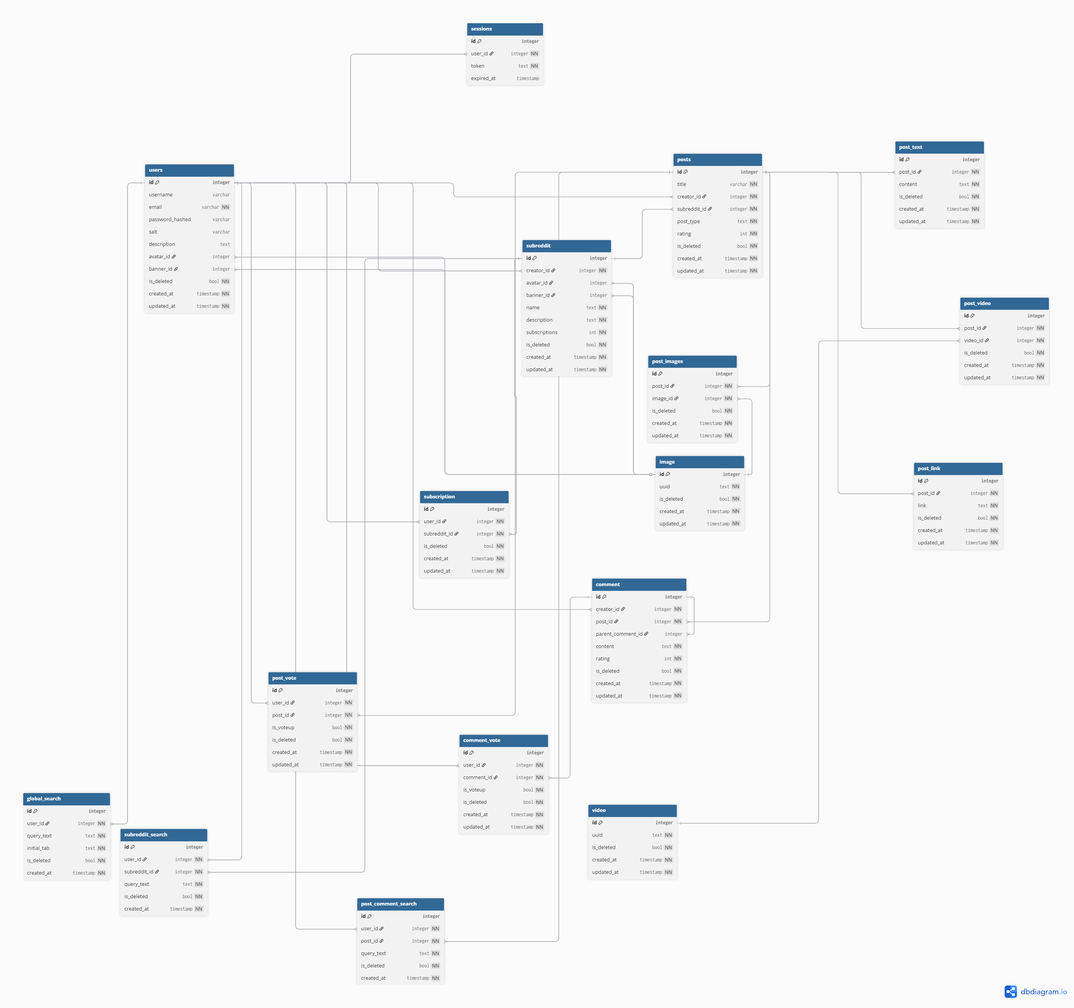
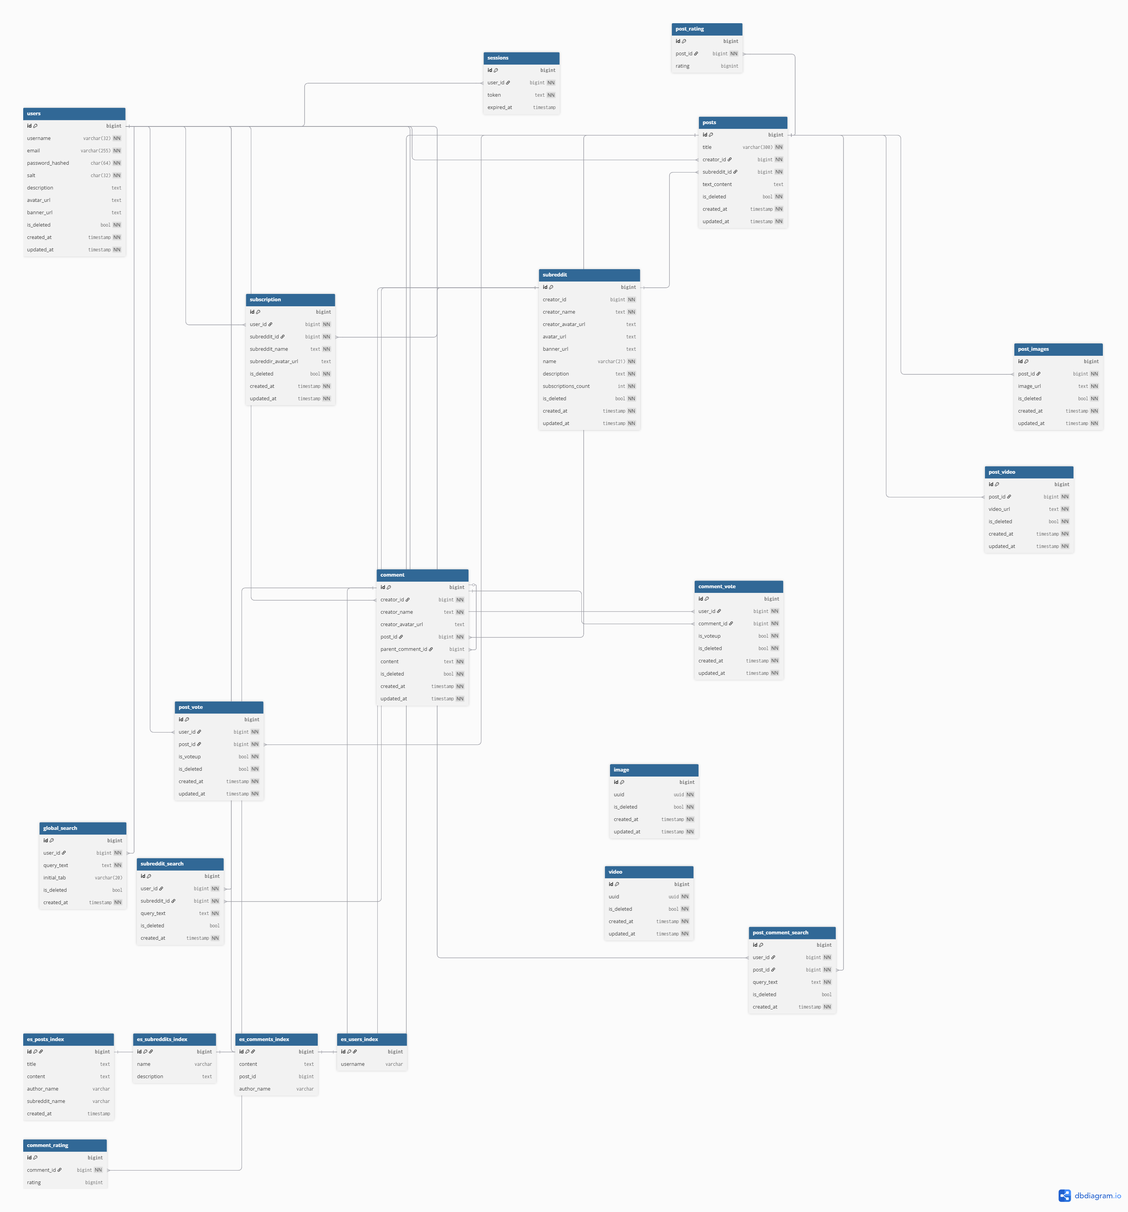
logical-schema-fixes

diff --git a/README.md b/README.md
@@ -688,8 +688,6 @@
 | **Subscription** | Связующая таблица, фиксирующая подписки конкретных пользователей на определенные сабреддиты. |
 | **Image** | Централизованное хранилище метаданных изображений (UUID). Используется как справочник для аватаров, баннеров и медиаконтента в постах. |
 | **Post** | Основная информация о публикациях: заголовок, тип контента, рейтинг, привязка к автору и сабреддиту. |
-| **PostText** | Содержит текстовую часть публикаций. Связана с таблицей Post для постов текстового типа. |
-| **PostLink** | Хранит внешние ссылки для публикаций типа «ссылка». |
 | **PostVideo** | Промежуточная таблица для связи постов с видео из таблицы Video |
 | **PostImages** | Промежуточная таблица для связи постов с изображениями из таблицы Image. |
 | **Comment** | Хранит текст и рейтинг комментариев. Поддерживает древовидную структуру за счет связи с родительским комментарием (parent_comment_id). |
@@ -698,6 +696,9 @@
 | **GlobalSearch** | Поисковые запросы пользователя по всему реддиту |
 | **SubredditSearch** | Поисковый запрос пользователя по сабреддиту |
 | **PostCommentSearch** | Поисковый запрос ползователя в секции комментариев под постом |
+| **es_posts_index** | Индекс для поиска по постам в ElasticSearch |
+| **es_subreddits_index** | Индекс для поиска по сабреддитам в ElasticSearch |
+| **es_comments_index** | Индекс для поиска по комментам в ElasticSearch |
 
 ### Расчет размеров данных
 
@@ -709,38 +710,38 @@
 | **Video** | 8 (id) + 16 (uuid) + 1 (is_deleted) + 8 (created_at) + 8 (updated_at) | 41 байт | 210 млн. | 8.0 ГБ |
 | **Subreddit** | 8 (id) + 8 (creator_id) + 8 (avatar_id) + 8 (banner_id) + 21 (name) + 500 (description) + 8 (subscriptions) + 1 (is_deleted) + 8 (created_at) + 8 (updated_at) | 578 байт | 5.155 млн. | 2.8 ГБ |
 | **Subscription** | 8 (id) + 8 (user_id) + 8 (subreddit_id) + 1 (is_deleted) + 8 (created_at) + 8 (updated_at) | 41 байт | 5.15 млрд. | 196.4 ГБ |
-| **Post** | 8 (id) + 100 (title) + 8 (creator_id) + 8 (subreddit_id) + 5 (post_type) + 8 (rating) + 1 (is_deleted) + 8 (created_at) + 8 (updated_at) | 154 байт | 1 млрд. | 143.4 ГБ |
-| **PostText** | 8 (id) + 8 (post_id) + 500 (content) + 1 (is_deleted) + 8 (created_at) + 8 (updated_at) | 533 байт | 290 млн. | 144.1 ГБ |
-| **PostLink** | 8 (id) + 8 (post_id) + 75 (link) + 1 (is_deleted) + 8 (created_at) + 8 (updated_at) | 108 байт | 120 млн. | 12.1 ГБ |
-| **PostVideo** | 8 (id) + 8 (post_id) + 8 (video_id) + 1 (is_deleted) + 8 (created_at) + 8 (updated_at) | 41 байт | 210 млн. | 8.0 ГБ |
-| **PostImages** | 8 (id) + 8 (post_id) + 8 (image_id) + 1 (is_deleted) + 8 (created_at) + 8 (updated_at) | 41 байт | 380 млн. | 14.5 ГБ |
+| **Post** | 8 (id) + 100 (title) + 8 (creator_id) + 8 (subreddit_id) + 5 (post_type) + 8 (rating) + 1 (is_deleted) + 8 (created_at) + 8 (updated_at) + 500 (text_content) | 154 байт | 1 млрд. | 609.08 ГБ |
+| **PostVideo** | 8 (id) + 8 (post_id) + 75 (video_url) + 1 (is_deleted) + 8 (created_at) + 8 (updated_at) | 108 байт | 210 млн. | 21.1 ГБ |
+| **PostImages** | 8 (id) + 8 (post_id) + 75 (image_url) + 1 (is_deleted) + 8 (created_at) + 8 (updated_at) | 108 байт | 380 млн. | 38.2 ГБ |
 | **Comment** | 8 (id) + 8 (creator_id) + 8 (post_id) + 8 (parent_comment_id) + 100 (content) + 8 (rating) + 1 (is_deleted) + 8 (created_at) + 8 (updated_at) | 157 байт | 16 млрд. | 2.34 ТБ |
 | **PostVote** | 8 (id) + 8 (user_id) + 8 (post_id) + 1 (is_voteup) + 1 (is_deleted) + 8 (created_at) + 8 (updated_at) | 42 байт | 9.4 млн. | 0.37 ГБ |
 | **CommentVote** | 8 (id) + 8 (user_id) + 8 (comment_id) + 1 (is_voteup) + 1 (is_deleted) + 8 (created_at) + 8 (updated_at) | 42 байт | 9.4 млн. | 0.37 ГБ |
 | **GlobalSearch** | 8 (id) + 8 (user_id) + 100 (query_text) + 12 (initial_tab) + 1 (is_deleted) + 8 (created_at) | 137 байт | 1.2 млрд. | 153.1 ГБ |
 | **SubredditSearch** | 8 (id) + 8 (user_id) + 8 (subreddit_id) + 100 (query_text) + 1 (is_deleted) + 8 (created_at) | 133 байт | 600 млн. | 74.3 ГБ |
 | **PostCommentSearch** | 8 (id) + 8 (user_id) + 8 (post_id) + 100 (query_text) + 1 (is_deleted) + 8 (created_at) | 133 байт | 200 млн. | 24.8 ГБ |
+| **es_posts_index** | 8 (id) + 100 (title) + 500 (content) + 32 (author_name) + 21 (subreddit_name) + 8 (created_at) | 669 байт | 1 млрд. | 623.1 ГБ |
+| **es_subreddits_index** | 8 (id) + 21 (name) + 500 (description) | 529 байт | 5.155 млн. | 2.5 ГБ |
+| **es_comments_index** | 8 (id) + 100 (content) + 8 (post_id) + 32 (author_name) | 148 байт | 16 млрд. | 2.15 ТБ |
 
 ### Расчет нагрузки на базу данных (QPS)
 
 | Тип запроса | Средний RPS | Пиковый RPS | Запросов в БД на 1 Request | Средний QPS (Чтение) | Пиковый QPS (Чтение) | Средний QPS (Запись) | Пиковый QPS (Запись) |
 | :--- | :--- | :--- | :--- | :--- | :--- | :--- | :--- |
 | **Авторизация** | 117 | 585 | 2 (select user, insert session) | 117 | 585 | 117 | 585 |
-| **Публикация (Image)** | 6.66 | 33.3 | 3 (select sub, insert post, insert post_img) | 6.66 | 33.3 | 13.32 | 66.6 |
-| **Публикация (Text)** | 5.03 | 25.15 | 3 (select sub, insert post, insert post_txt) | 5.03 | 25.15 | 10.06 | 50.3 |
-| **Публикация (Video)** | 3.62 | 18.1 | 3 (select sub, insert post, insert post_vid) | 3.62 | 18.1 | 7.24 | 36.2 |
-| **Публикация (Link)** | 2.10 | 10.5 | 3 (select sub, insert post, insert post_link) | 2.10 | 10.5 | 4.2 | 21 |
+| **Публикация (Image)** | 6.66 | 33.3 | 3 (select sub, insert post, insert post_images) | 6.66 | 33.3 | 13.32 | 66.6 |
+| **Публикация (Text)** | 5.03 | 25.15 | 2 (select sub, insert post) | 5.03 | 25.15 | 5.03 | 25.15 |
+| **Публикация (Video)** | 3.62 | 18.1 | 3 (select sub, insert post, insert post_video) | 3.62 | 18.1 | 7.24 | 36.2 |
+| **Публикация (Link)** | 2.10 | 10.5 | 2 (select sub, insert post) | 2.10 | 10.5 | 2.10 | 10.5 |
 | **Комментарий** | 86.5 | 432.5 | 2 (select post, insert comment) | 86.5 | 432.5 | 86.5 | 432.5 |
-| **Оценка (Vote)** | 217 | 1085 | 1 (insert/upsert vote) | — | — | 217 | 1085 |
+| **Оценка (Vote)** | 217 | 1085 | 1 (upsert vote) | — | — | 217 | 1085 |
 | **Создание сабреддита** | 0.018 | 0.09 | 1 (insert subreddit) | — | — | 0.018 | 0.09 |
 | **Подписка** | 120 | 600 | 2 (select sub, insert subscription) | 120 | 600 | 120 | 600 |
-| **Просмотр постов** | 155 475 | 777 380 | 3 (select post, select content, select user) | 466 425 | 2 332 140 | — | — |
-| **Поиск поста** | 1169 | 5845 | 2 (select search_idx, select post_details) | 2338 | 11 690 | — | — |
+| **Просмотр постов** | 155 475 | 777 380 | 3 (select post, select media, select user) | 466 425 | 2 332 140 | — | — |
 | **Запрос ленты** | 4863 | 24 315 | 4 (select subs, select posts, select media, select votes) | 19 452 | 97 260 | — | — |
-| **Глобальный поиск** | 701 | 3505 | 3 (select results, insert history, select user_history) | 1051 | 5257 | 701 | 3505 |
-| **Поиск в сабреддите** | 350 | 1750 | 3 (select sub_results, insert history, select sub_history) | 525 | 2625 | 350 | 1750 |
-| **Поиск в комментариях** | 118 | 590 | 3 (select comm_results, insert history, select comm_history) | 177 | 885 | 118 | 590 |
-| **ИТОГО (Поиск)** | **1169** | **5845** | — | **1753** | **8767** | **1169** | **5845** |
+| **Глобальный поиск** | 701 | 3505 | 3 (select ES_idx, select user_hist, insert hist) | 1402 | 7010 | 701 | 3505 |
+| **Поиск в сабреддите** | 350 | 1750 | 3 (select ES_idx, select sub_hist, insert hist) | 700 | 3500 | 350 | 1750 |
+| **Поиск в комментариях** | 118 | 590 | 3 (select ES_idx, select comm_hist, insert hist) | 236 | 1180 | 118 | 590 |
+| **ИТОГО (Суммарно)** | **162 064** | **810 330** | — | **488 555** | **2 442 795** | **1737** | **8686** |
 
 
 ### Требования к консистентности данных
@@ -749,13 +750,11 @@
 | :--- | :--- | :--- |
 | **Жизненный цикл (Удаление)** | При удалении (soft delete) пользователя, сабреддита или поста, все зависимые сущности (подписки, голоса, медиа-контент) должны также помечаться `is_deleted = true`. | Каскадные триггеры  или логика на уровне application service. |
 | **Автозаполнение** | Поля `created_at` и `updated_at` заполняются на уровне БД при вставке и любом обновлении строки. | `DEFAULT CURRENT_TIMESTAMP` и `ON UPDATE CURRENT_TIMESTAMP`. |
-| **Типизация контента** | Поле `post_type` должно строго соответствовать наличию записи в дочерней таблице (`post_text`, `post_video`, `post_link`, `post_images`). Пост не может быть одновременно ссылкой и видео. | `CHECK` констрейнты или валидация на уровне транзакции при создании поста. |
 | **Целостность дерева** | Комментарий не может ссылаться на самого себя в качестве родителя (`parent_comment_id != id`). | `CHECK (parent_comment_id <> id)`. |
 | **Уникальность подписок** | Пользователь может иметь только одну активную подписку на конкретный сабреддит. | Составной уникальный индекс `UNIQUE(user_id, subreddit_id)`. |
 | **Логика голосования** | Пользователь не может проголосовать за один и тот же объект дважды. При повторном голосовании (например, смена Upvote на Downvote) старая запись обновляется или заменяется. | `UPSERT` логика и уникальный индекс `UNIQUE(user_id, post_id/comment_id)`. |
 | **Владение контентом** | Только создатель поста (`creator_id`) или модератор сабреддита имеет право изменять метаданные или помечать контент как удаленный. | Проверка прав доступа (ACL) перед выполнением `UPDATE`. |
 | **Счетчики (Denormalization)** | Поля вроде `subscriptions` в таблице `Subreddit` или `rating` в `Post` должны быть синхронизированы с количеством реальных записей в таблицах связей. | Асинхронные воркеры или триггеры для инкремента/декремента. |
-| **Медиа-ссылки** | Запись в `PostImages`, `PostVideo` или `PostLink` не может существовать без родительской записи в таблице `Posts`. | `FOREIGN KEY ... ON DELETE CASCADE`. |
 | **Статус сессии** | Токен сессии считается невалидным, если `expired_at < NOW()`. Проверка должна происходить на уровне middleware до обращения к бизнес-логике. | Индекс на `expired_at` для быстрой очистки просроченных сессий по расписанию. |
 | **Валидация контекста** | В `subreddit_search` поле `subreddit_id` должно указывать на существующий и активный сабреддит. | Foreign Key с правилом `ON DELETE CASCADE`. |
 | **Очистка при удалении** | При удалении поста (`is_deleted = true`), связанные записи в `post_comment_search` должны скрываться или удаляться. | Trigger или фоновая задача (Cleanup Job). |
@@ -767,7 +766,6 @@
 
 
 ## 6. Физическая схема БД
-![alt text](db_physical_schema.png)
 
 ### Индексы
 | Таблица | Индекс | Тип индекса | Пояснение | Размер записи | Всего строк | Итоговый размер |
@@ -783,36 +781,6 @@
 | **comment** | `idx_comment_post` (post_id, created_at DESC) | B-Tree | Загрузка дерева комментариев к посту | 16 байт | 16 млрд | 238.42 ГБ |
 | **subreddit** | `idx_sub_name_unique` (name) | B-Tree | Уникальный индекс для имени сабреддита | 24 байта | 2.6 млн | 0.06 ГБ |
 
-### Денормализация
-| Таблица | Поля для денормализации | Источник данных | Цель |
-| :--- | :--- | :--- | :--- |
-| **Users** | `avatar_url`, `banner_url` | S3 | Храним прямые ссылки на статику. Быстрая отрисовка профиля без JOIN с таблицей ресурсов. |
-| **Subreddit** | `creator_name`, `creator_avatar_url` | `Users` | Отображение информации о создателе на главной странице сабреддита без запроса к профилю пользователя. |
-| **Subreddit** | `avatar_url`, `banner_url` | S3 | Прямые ссылки для оформления сообщества. |
-| **Subscription** | `subreddit_name`, `subreddit_avatar_url` | `Subreddit` | Мгновенная отрисовка списка подписок в боковом меню (Sidebar) одним запросом. |
-| **Post_Video** | `video_url` | S3 | Прямой доступ к видеофайлу поста без промежуточных таблиц метаданных. |
-| **Post_Images** | `image_url` | S3 | Поддержка галерей изображений с прямым доступом к ссылкам. |
-| **Comment** | `creator_name`, `creator_avatar_url` | `Users` | Рендеринг веток обсуждений (16 млрд строк). Денормализация критична для исключения JOIN при массовой выборке. |
-
-### Размеры данных
-| Таблица | Расчет размера строки (поля) | Размер строки | Всего строк | Размер таблицы |
-| :--- | :--- | :--- | :--- | :--- |
-| **Sessions (Redis)** | 8(id) + 8(u_id) + 40(token) + 8(exp) | 64 байта | 101 млн (DAU) | 6.4 ГБ |
-| **Users** | 8(id) + 23(nick) + 24(email) + 64(hash) + 32(salt) + 50(desc) + 30(avatar_url) + 30(banner_url) + 1(del) + 8(cr) + 8(upd) | 278 байт | 420 млн | 108.7 ГБ |
-| **Subreddit** | 8(id) + 8(cr_id) + 20(cr_name) + 30(cr_av) + 30(av) + 30(ban) + 21(name) + 50(desc) + 4(count) + 1(del) + 8(cr) + 8(upd) | 210 байт | 2.6 млн | 0.5 ГБ |
-| **Subscription** | 8(id) + 8(u_id) + 8(sub_id) + 21(sub_name) + 30(sub_av) + 1(del) + 8(cr) + 8(upd) | 85 байт | 6.3 млрд | 498.7 ГБ |
-| **Posts** | 8(id) + 75(title) + 8(cr_id) + 8(sub_id) + 10(type) + 4(rating) + 1(del) + 8(cr) + 8(upd) | 130 байт | 1 млрд | 121.1 ГБ |
-| **PostText** | 8(id) + 8(p_id) + 300(content) + 1(del) + 8(cr) + 8(upd) | 325 байт | 290 млн | 87.8 ГБ |
-| **PostLink** | 8(id) + 8(p_id) + 75(url) + 1(del) + 8(cr) + 8(upd) | 100 байт | 120 млн | 11.2 ГБ |
-| **PostVideo** | 8(id) + 8(p_id) + 30(v_url) + 1(del) + 8(cr) + 8(upd) | 55 байт | 210 млн | 10.7 ГБ |
-| **PostImages** | 8(id) + 8(p_id) + 30(i_url) + 1(del) + 8(cr) + 8(upd) | 55 байт | 380 млн | 19.5 ГБ |
-| **Comment** | 8(id) + 8(cr_id) + 11(cr_name) + 30(cr_av) + 8(p_id) + 8(par_id) + 120(content) + 4(rating) + 1(del) + 8(cr) + 8(upd) | 206 байт | 16 млрд | 3.07 ТБ |
-| **PostVote** | 8(id) + 8(u_id) + 8(p_id) + 1(up) + 1(del) + 8(cr) + 8(upd) | 42 байта | 84 млрд | 3.28 ТБ |
-| **CommentVote** | 8(id) + 8(u_id) + 8(c_id) + 1(up) + 1(del) + 8(cr) + 8(upd) | 42 байта | 336 млрд | 13.1 ТБ |
-| **SearchPosts (ES)** | 8(id) + 75(title) + 300(content) + 21(sub_name) + 23(author) | 427 байт | 1 млрд | 397.6 ГБ |
-| **SearchComm (ES)** | 8(id) + 120(content) + 8(p_id) + 23(author) | 159 байт | 16 млрд | 2.37 ТБ |
-| **Images (S3)** | Посты (380 млн x 2 МБ) + Аватары юзеров (63 млн x 7.5 КБ) + Баннеры юзеров (84 млн x 150 КБ) + Аватары сабов (2.6 млн x 7.5 КБ) + Баннеры сабов (2.6 млн x 150 КБ) | ~ 1.45 МБ (в среднем) | 532.2 млн | **773.5 ТБ** |
-| **Video (S3)** | Посты с видео (210 млн x 15 МБ) | 15 МБ | 210 млн | **3.15 ПБ (3150 ТБ)** |
 
 ### Выбор СУБД (потаблично)
 | Таблица | СУБД | Пояснение |
@@ -821,7 +789,7 @@
 | **users** | PostgreSQL | Основной профиль пользователя. Требует строгой транзакционной целостности (ACID) для логинов, паролей и email. |
 | **subreddit** | PostgreSQL | Данные сообществ (2.6 млн строк). Относительно небольшой объем, где важны реляционные связи и консистентность. |
 | **subscription** | PostgreSQL | Связь пользователей и сообществ. Большой объем (6.3 млрд), партиционируется по `user_id` для быстрого получения списка подписок. |
-| **posts**, **post_text**, **post_link**, **post_video**, **post_images** | PostgreSQL | Ядро контента (1 млрд постов). Реляционная модель отлично подходит для связи поста с его денормализованным контентом и метаданными. |
+| **posts**, **post_video**, **post_images** | PostgreSQL | Ядро контента (1 млрд постов). Реляционная модель отлично подходит для связи поста с его денормализованным контентом и метаданными. |
 | **comment** | PostgreSQL | Огромный объем (16 млрд строк, 3 ТБ). Требует горизонтального масштабирования  для высокой скорости записи. |
 | **post_vote**, **comment_vote** | Cassandra / ScyllaDB | Колоссальный объем данных (сотни миллиардов строк, ~16 ТБ). Реляционные СУБД здесь избыточны. Идеально ложится на Key-Value или Wide-Column для сверхбыстрой записи и агрегации без JOIN-ов. |
 | **image**, **video** (Медиа) | S3 SeaweedFS | Хранение петабайтов (более 3 ПБ) статических файлов (картинки, видео). |
